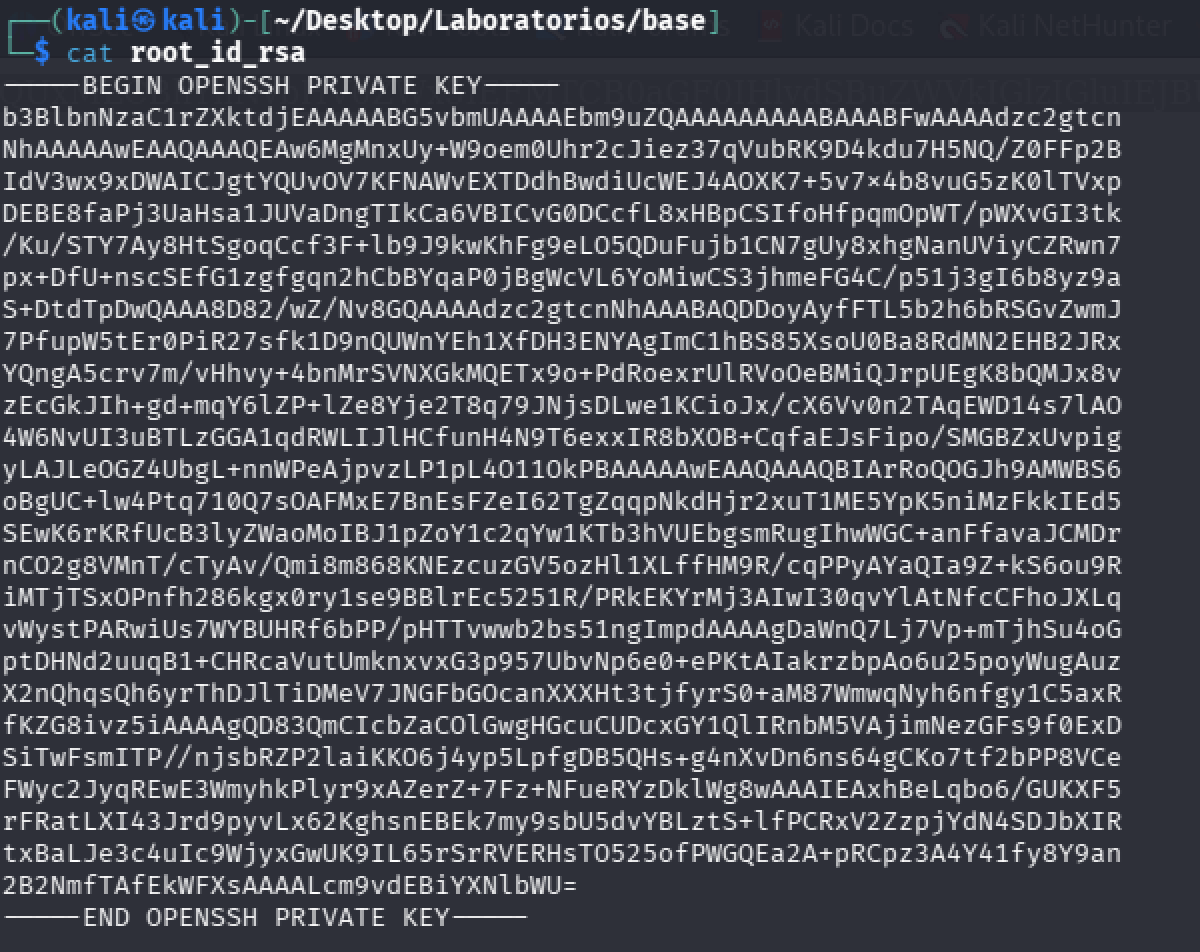
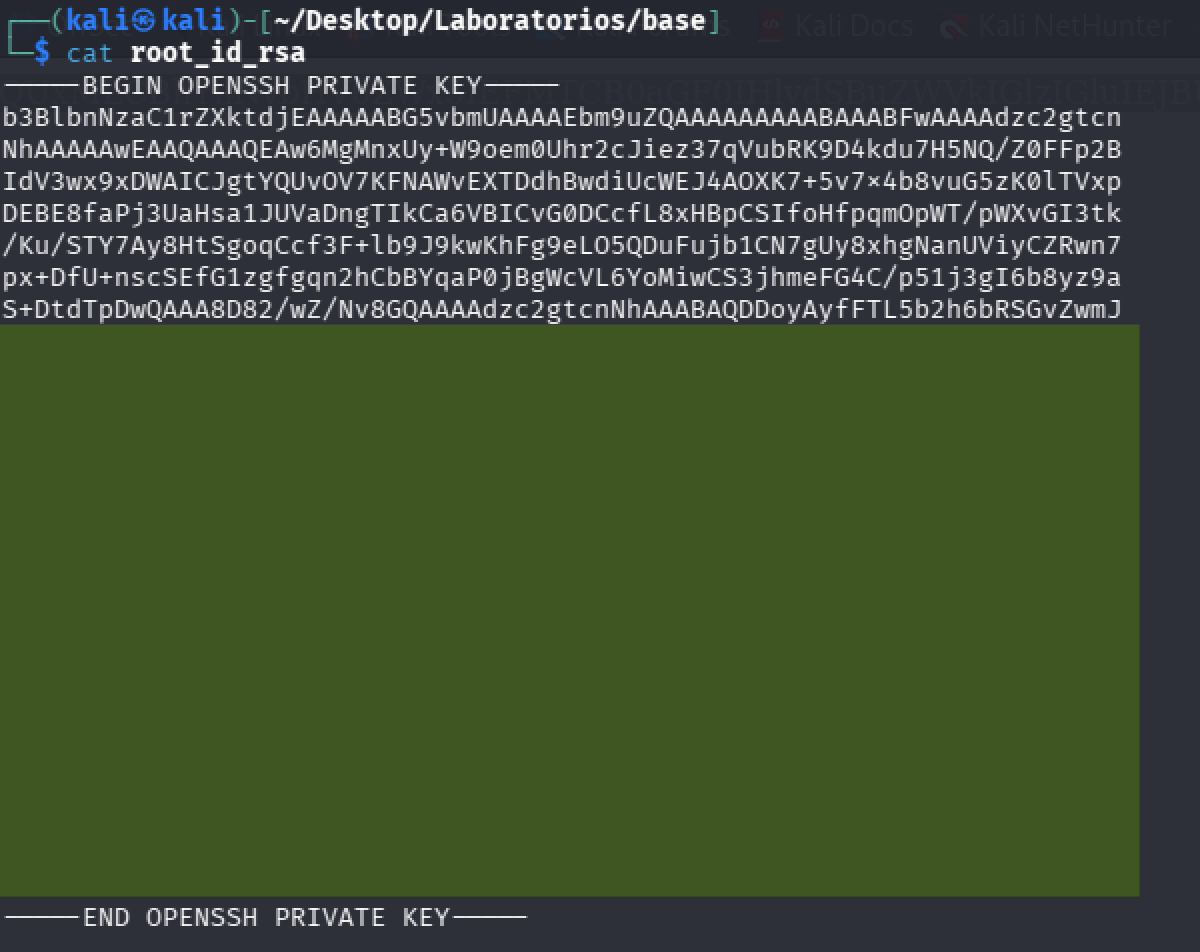
BaseMe documents corrections

diff --git a/HackMyVM/BaseME/mitigations.md b/HackMyVM/BaseME/mitigations.md
@@ -22,4 +22,4 @@ We escalated privileges to `root` due to a misconfigured sudo entry containing t
 
 **Recommendation:**
 1. **Primary fix (Principle of Least Privilege):** Remove unnecessary binaries and users from the `/etc/sudoers` configuration. Standard users should not be granted `sudo` access to binaries like `base64` that allow arbitrary file reading.
-2. **Alternative lab-specific fix:** If `lucas` strictly requires execution rights for `base64` as `root`, remove `NOPASSWD` and enforce password authentication. In this scenario, configuring `Defaults rootpw` forces `sudo` to prompt for the root password, preventing an attacker who only possesses Lucas's account credentials from abusing the binary. To learn how to do this, visit the mitigation actions from lab "Canto" [here.](/HackMyVm/Canto/mitigations.md)
+2. **Alternative lab-specific fix:** If `lucas` strictly requires execution rights for `base64` as `root`, remove `NOPASSWD` and enforce password authentication. In this scenario, configuring `Defaults rootpw` forces `sudo` to prompt for the root password, preventing an attacker who only possesses Lucas's account credentials from abusing the binary. To learn how to do this, visit the mitigation actions from lab "Canto" [here.](https://github.com/xhcktst/CTF-Writeups/blob/main/HackMyVM/Canto/mitigations.md)
